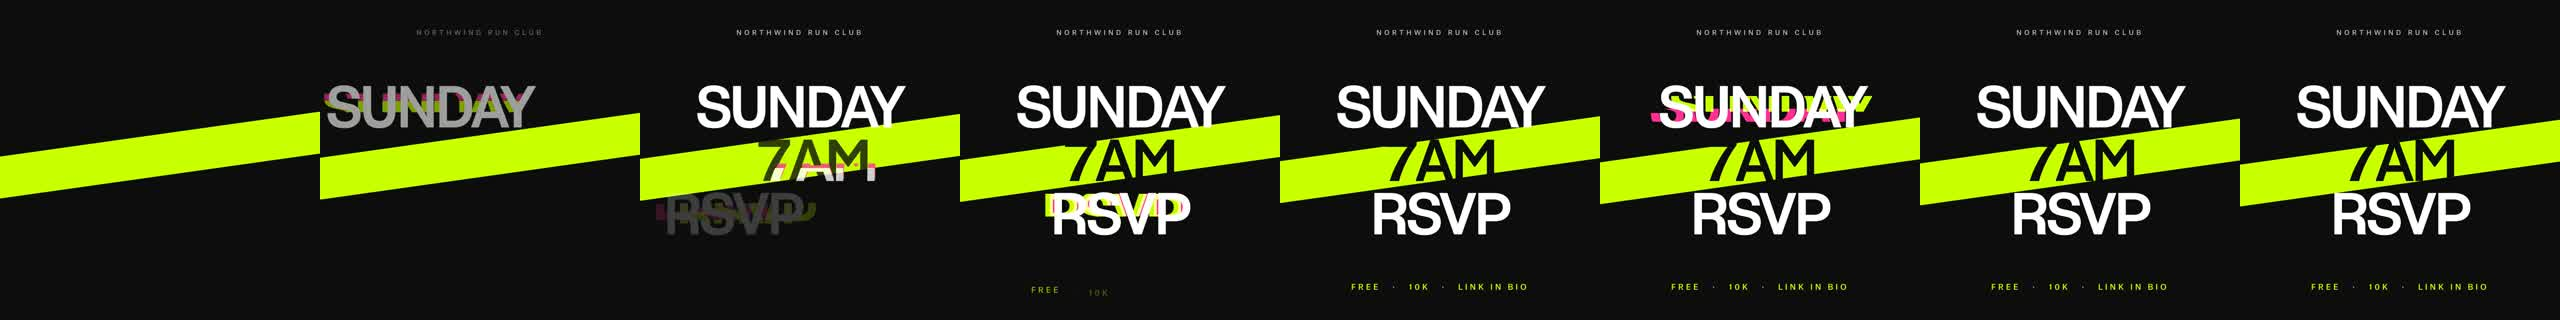
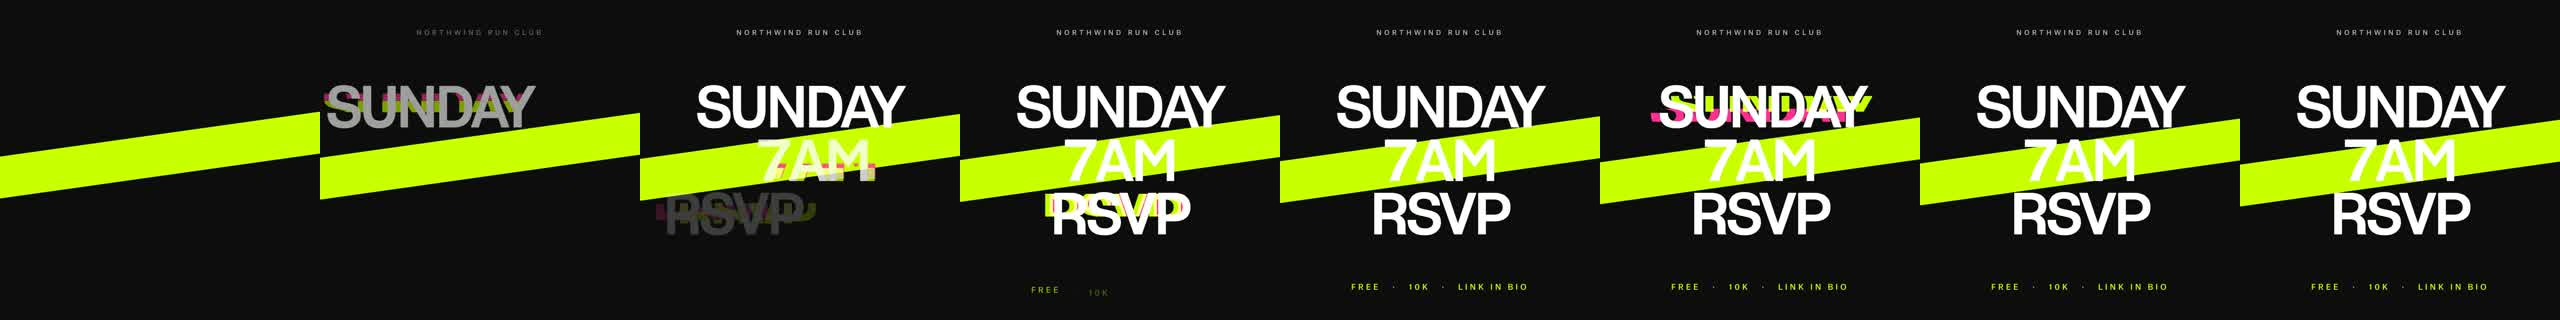
fix(effects): update UI layouts, responsive scaling, and render artifacts across effects

diff --git a/effects/text/blend-modes-overlay-poster/index.html b/effects/text/blend-modes-overlay-poster/index.html
@@ -1,20 +1,19 @@
 <!doctype html><meta charset="utf-8">
 <title>Blend Modes: Overlay Poster</title>
-<meta name="fx" content="w=1080 h=1920">
+<meta name="fx" content="w=1280 h=720">
 <link rel="stylesheet" href="../../_lib/base.css">
 <style>
   .stage{background:#0a0a0c;color:#fff;isolation:isolate}
   .img{position:absolute;inset:0;background:url("../../../assets/backgrounds/ocean.png") center/cover;filter:saturate(1.1) contrast(1.1) brightness(1.15)}
   .panel{position:absolute;mix-blend-mode:overlay;will-change:transform}
   .p1{left:0;top:0;width:100%;height:100%;background:#ff7a3d;transform-origin:left}
-  .p2{left:0;top:1080px;width:100%;height:840px;background:#2e7bff;transform-origin:bottom}
-  .p3{left:80px;top:220px;width:920px;height:1120px;background:#fff;opacity:.9}
-  .type{position:absolute;left:80px;top:380px;right:80px;mix-blend-mode:overlay}
-  .h{font-family:"Sharp Grotesk","Atlas Grotesk",sans-serif;font-weight:500;font-size:236px;line-height:.86;letter-spacing:-.05em;text-transform:uppercase;color:#fff}
+  .p2{left:0;top:420px;width:100%;height:300px;background:#2e7bff;transform-origin:bottom}
+  .p3{left:280px;top:35px;width:720px;height:480px;background:#fff;opacity:.9}
+  .badge{position:absolute;left:840px;top:60px;width:120px;height:120px;border-radius:50%;border:2.5px solid #fff;display:grid;place-items:center;font-size:19px;text-align:center;line-height:1.1;letter-spacing:.06em;mix-blend-mode:overlay}
+  .type{position:absolute;left:320px;top:60px;width:640px;mix-blend-mode:overlay}
+  .h{font-family:"Sharp Grotesk","Atlas Grotesk",sans-serif;font-weight:500;font-size:136px;line-height:.86;letter-spacing:-.05em;text-transform:uppercase;color:#fff}
   .h .ln{display:block;overflow:hidden}.h .ln span{display:block}
-  .meta{position:absolute;left:80px;right:80px;bottom:140px;display:flex;justify-content:space-between;font-size:30px;letter-spacing:.12em;text-transform:uppercase;font-weight:500;border-top:2px solid #fff;padding-top:22px}
-  .badge{position:absolute;right:80px;top:120px;width:150px;height:150px;border-radius:50%;border:3px solid #fff;display:grid;place-items:center;font-size:26px;text-align:center;line-height:1.1;letter-spacing:.06em;mix-blend-mode:overlay}
-  .strip{position:absolute;left:0;right:0;top:1460px;height:120px;background:#fff;mix-blend-mode:overlay;color:#000;display:flex;align-items:center;white-space:nowrap;font-size:64px;font-weight:500;letter-spacing:-.02em;text-transform:uppercase;overflow:hidden}
+  .strip{position:absolute;left:0;right:0;top:540px;height:56px;background:#fff;mix-blend-mode:overlay;color:#000;display:flex;align-items:center;white-space:nowrap;font-size:30px;font-weight:500;letter-spacing:-.02em;text-transform:uppercase;overflow:hidden}
   .strip .track{display:flex;will-change:transform}.strip span{padding-right:60px}
 </style>
 <div class="stage">
@@ -23,7 +22,6 @@
   <div class="badge">Live<br>Sept 12</div>
   <div class="type"><div class="h"><div class="ln"><span>Open</span></div><div class="ln"><span>Water</span></div><div class="ln"><span>Fest</span></div></div></div>
   <div class="strip"><div class="track"><span>Northwind Sound System</span><span>Northwind Sound System</span><span>Northwind Sound System</span><span>Northwind Sound System</span></div></div>
-  <div class="meta"><span>Harbour Pier 9</span><span>From 7pm</span></div>
 </div>
 <script src="../../../assets/gsap/gsap.min.js"></script>
 <script src="../../_lib/fx.js"></script>
@@ -32,16 +30,15 @@
   tl.fromTo('.img', { scale: 1.12, y: -20 }, { scale: 1.02, y: 20, duration: 4, ease: 'none' }, 0);
   tl.from('.p1', { scaleX: 0, duration: .8, ease: 'expo.out' }, 0)
     .from('.p2', { scaleY: 0, duration: .8, ease: 'expo.out' }, .15)
-    .from('.p3', { yPercent: 110, duration: .9, ease: 'expo.out' }, .25)
+    .from('.p3', { yPercent: 160, duration: .9, ease: 'expo.out' }, .25)
     .from('.h span', { yPercent: 105, duration: .8, stagger: .1, ease: 'expo.out' }, .45)
     .from('.badge', { scale: 0, rotation: -90, duration: .7, ease: 'back.out(1.8)' }, .8)
-    .from('.strip', { scaleY: 0, duration: .5, ease: 'expo.out' }, .9)
-    .from('.meta', { y: 20, opacity: 0, duration: .6, ease: 'power3.out' }, 1.0);
-  tl.fromTo('.strip .track', { x: 0 }, { x: -880, duration: 4, ease: 'none' }, 0);
+    .from('.strip', { scaleY: 0, duration: .5, ease: 'expo.out' }, .9);
+  tl.fromTo('.strip .track', { x: 0 }, { x: -507, duration: 4, ease: 'none' }, 0);
   tl.to('.badge', { rotation: 360, duration: 4, ease: 'none' }, 0);
-  tl.to('.p1', { scaleX: 0, transformOrigin: 'right', duration: .5, ease: 'expo.in' }, 3.4)
-    .to('.p2', { scaleY: 0, duration: .5, ease: 'expo.in' }, 3.4)
-    .to('.p3', { yPercent: -110, duration: .5, ease: 'expo.in' }, 3.45)
+  tl.to('.p1', { scaleX: 0, transformOrigin: 'right', duration: .45, ease: 'expo.in' }, 3.4)
+    .to('.p2', { scaleY: 0, duration: .45, ease: 'expo.in' }, 3.4)
+    .to('.p3', { yPercent: -160, duration: .45, ease: 'expo.in' }, 3.45)
     .to('.h span', { yPercent: -105, duration: .4, stagger: .05, ease: 'expo.in' }, 3.35)
-    .to('.badge, .meta, .strip', { opacity: 0, duration: .3 }, 3.6);
+    .to('.badge, .strip', { opacity: 0, duration: .3 }, 3.55);
 </script>

diff --git a/effects/the-click/liquid-glass-toggle/index.html b/effects/the-click/liquid-glass-toggle/index.html
@@ -7,7 +7,7 @@
   .bg{position:absolute;inset:-8%;background:url("../../../assets/backgrounds/aurora.png") center/cover;filter:saturate(1.3);will-change:transform}
   .orb{position:absolute;border-radius:50%;filter:blur(40px);opacity:.75;will-change:transform}
   .o1{width:460px;height:460px;background:#ff5da2;left:120px;top:-60px}.o2{width:420px;height:420px;background:#38d0ff;right:120px;bottom:-140px}
-  .row{position:relative;display:flex;align-items:center;gap:34px;padding:26px 34px 26px 40px;border-radius:40px;background:rgba(255,255,255,.12);backdrop-filter:blur(26px) saturate(1.8);-webkit-backdrop-filter:blur(26px) saturate(1.8);border:1px solid rgba(255,255,255,.4);box-shadow:0 30px 80px rgba(0,0,0,.35),inset 0 1px 0 rgba(255,255,255,.6)}
+  .row{position:relative;display:flex;align-items:center;gap:28px;padding:26px 40px;border-radius:40px;background:rgba(255,255,255,.12);backdrop-filter:blur(26px) saturate(1.8);-webkit-backdrop-filter:blur(26px) saturate(1.8);border:1px solid rgba(255,255,255,.4);box-shadow:0 30px 80px rgba(0,0,0,.35),inset 0 1px 0 rgba(255,255,255,.6)}
   .lbl{font-size:34px;font-weight:500;color:#fff;width:300px}
   .lbl small{display:block;font-size:20px;font-weight:400;color:rgba(255,255,255,.7);margin-top:4px}
   .tog{position:relative;width:180px;height:96px;border-radius:48px;background:rgba(255,255,255,.18);border:1px solid rgba(255,255,255,.45);box-shadow:inset 0 4px 12px rgba(0,0,0,.18),inset 0 1px 0 rgba(255,255,255,.5);will-change:transform}
@@ -16,7 +16,7 @@
   .knob{position:absolute;left:6px;top:6px;width:84px;height:84px;border-radius:50%;background:rgba(255,255,255,.9);will-change:transform}
   .tail{position:absolute;left:6px;top:6px;width:84px;height:84px;border-radius:50%;background:rgba(255,255,255,.9);will-change:transform}
   .knobHi{position:absolute;left:6px;top:6px;width:84px;height:84px;border-radius:50%;background:radial-gradient(60% 60% at 35% 25%,rgba(255,255,255,1),rgba(255,255,255,0) 70%);box-shadow:0 10px 26px rgba(0,0,0,.25);will-change:transform;pointer-events:none}
-  .state{position:absolute;right:-84px;top:50%;transform:translateY(-50%);font-size:30px;font-weight:500;color:#fff;width:70px;height:36px;line-height:34px;overflow:hidden}
+  .state{position:relative;font-size:30px;font-weight:500;color:#fff;width:54px;height:36px;line-height:36px;overflow:hidden;flex-shrink:0}
   .state span{position:absolute;left:0;top:0}
   .cursor{position:absolute;width:40px;height:44px;left:0;top:0;will-change:transform;filter:drop-shadow(0 6px 10px rgba(0,0,0,.5));opacity:0;z-index:5}
 </style>
@@ -25,9 +25,8 @@
   <div class="bg"></div><div class="orb o1"></div><div class="orb o2"></div>
   <div class="row">
     <div class="lbl">Focus mode<small>Silence notifications</small></div>
-    <div class="tog"><div class="fillg"></div><div class="goo"><div class="tail"></div><div class="knob"></div></div><div class="knobHi"></div>
-      <div class="state"><span class="off">Off</span><span class="on" style="opacity:0">On</span></div>
-    </div>
+    <div class="tog"><div class="fillg"></div><div class="goo"><div class="tail"></div><div class="knob"></div></div><div class="knobHi"></div></div>
+    <div class="state"><span class="off">Off</span><span class="on" style="opacity:0">On</span></div>
     <svg class="cursor" viewBox="0 0 20 22"><path d="M2 1 L17 12 L10 13 L14 20 L11 21 L7 14 L2 18 Z" fill="#fff" stroke="#000" stroke-width="1.2" stroke-linejoin="round"/></svg>
   </div>
 </div>
@@ -56,7 +55,8 @@
       .to('.cursor', { scale: 0.85, transformOrigin: '10% 5%', duration: 0.08 }, t)
       .to('.cursor', { scale: 1, duration: 0.15 }, t + 0.12);
   }
-  const kx = 40 + 300 + 34 + 48, ky = 26 + 48; // knob center in .row coords
+  const tog = document.querySelector('.tog');
+  const kx = tog.offsetLeft + 48, ky = tog.offsetTop + 48; // knob center in .row coords
   tl.fromTo('.cursor', { x: kx - 200, y: ky + 180, opacity: 0 }, { x: kx, y: ky + 4, opacity: 1, duration: 0.8, ease: 'power3.out' }, 0.3);
   flip(true, 1.3);
   tl.to('.cursor', { x: kx + D, duration: 0.5, ease: 'power2.inOut' }, 1.5);

diff --git a/effects/devices/the-route-boarding-pass/index.html b/effects/devices/the-route-boarding-pass/index.html
@@ -20,8 +20,8 @@
   .apt small{display:block;font-family:"Atlas Grotesk",sans-serif;font-size:13px;color:#6b7280;letter-spacing:0;margin-top:6px}
   .apt.r{text-align:right}
   .arc{height:110px;position:relative}
-  .arc svg{width:100%;height:100%;overflow:visible}
-  .plane{position:absolute;left:0;top:0;width:30px;height:30px;margin:-15px;will-change:transform}
+  .arc > svg:first-child{width:100%;height:100%;overflow:visible}
+  .plane{position:absolute;left:0;top:0;width:24px;height:24px;margin:-12px;will-change:transform;pointer-events:none;opacity:0}
   .grid{display:grid;grid-template-columns:repeat(4,1fr);gap:16px;margin-top:22px}
   .grid div{font-size:26px;font-weight:500;letter-spacing:-.02em}
   .grid div small{display:block;font-size:11px;letter-spacing:.16em;text-transform:uppercase;color:#6b7280;font-weight:400;margin-bottom:6px}
@@ -38,8 +38,8 @@
       <div class="hd"><i></i><b>Northwind Air</b>NW 214<span class="st">Boarding</span></div>
       <div class="route">
         <div class="apt">SFO<small>San Francisco · 07:45</small></div>
-        <div class="arc"><svg viewBox="0 0 400 110"><path id="p" d="M8,95 C120,-10 280,-10 392,95" fill="none" stroke="#d7dbe3" stroke-width="2" stroke-dasharray="5 7"/><path id="p2" d="M8,95 C120,-10 280,-10 392,95" fill="none" stroke="#2f6bff" stroke-width="3" stroke-linecap="round"/><circle cx="8" cy="95" r="6" fill="#0b1220"/><circle cx="392" cy="95" r="6" fill="#0b1220"/></svg>
-          <svg class="plane" viewBox="0 0 24 24"><path d="M2 12l20-8-6 8 6 8z" fill="#0b1220"/></svg></div>
+        <div class="arc"><svg viewBox="0 0 400 110"><path id="p" d="M12,95 C120,-10 280,-10 382,95" fill="none" stroke="#d7dbe3" stroke-width="2" stroke-dasharray="5 7"/><path id="p2" d="M12,95 C120,-10 280,-10 382,95" fill="none" stroke="#2f6bff" stroke-width="3" stroke-linecap="round"/><circle cx="12" cy="95" r="6" fill="#0b1220"/><circle cx="382" cy="95" r="6" fill="#0b1220"/></svg>
+          <svg class="plane" viewBox="0 0 512 512"><path d="M186.62 464H160a16 16 0 0 1-14.57-22.6l64.46-142.25L113.1 297l-35.3 42.77C71.07 348.23 65.7 352 52 352H34.08a17.66 17.66 0 0 1-14.7-7.06c-2.38-3.21-4.72-8.65-2.44-16.41l19.82-71c.15-.53.33-1.06.53-1.58a.4.4 0 0 0 0-.15 15 15 0 0 1-.53-1.59l-19.84-71.45c-2.15-7.61.2-12.93 2.56-16.06a16.83 16.83 0 0 1 13.6-6.7H52c10.23 0 20.16 4.59 26 12l34.57 42.05 97.32-1.44-64.44-142A16 16 0 0 1 160 48h26.91a25 25 0 0 1 19.35 9.8l125.05 152 57.77-1.52c4.23-.23 15.95-.31 18.66-.31C463 208 496 225.94 496 256c0 9.46-3.78 27-29.07 38.16-14.93 6.6-34.85 9.94-59.21 9.94-2.68 0-14.37-.08-18.66-.31l-57.76-1.54-125.36 152a25 25 0 0 1-19.32 9.75" fill="#0b1220"/></svg></div>
         <div class="apt r">JFK<small>New York · 16:20</small></div>
       </div>
       <div class="grid"><div><small>Gate</small><span class="g">B12</span></div><div><small>Boarding</small><span class="bt">07:05</span></div><div><small>Seat</small><span class="se">14A</span></div><div><small>Group</small><span class="gr">2</span></div></div>
@@ -71,6 +71,7 @@
     // barcode prints in
     .from('#bar i', { scaleY: 0, stagger: 0.012, duration: 0.3, ease: 'power2.out' }, 1.0)
     // the route draws and the plane follows it, nose along the curve
+    .to('.plane', { opacity: 1, duration: 0.2 }, 1.5)
     .fromTo('#p2', { drawSVG: '0%' }, { drawSVG: '100%', duration: 3.2, ease: 'power2.inOut' }, 1.5)
     .to('.plane', { motionPath: { path: '#p', align: '#p', alignOrigin: [0.5, 0.5], autoRotate: true }, duration: 3.2, ease: 'power2.inOut' }, 1.5)
     // the pass reacts: gate and boarding time update with a flip

diff --git a/effects/text/multiply/index.html b/effects/text/multiply/index.html
@@ -3,7 +3,10 @@
 <meta name="fx" content="w=1280 h=720">
 <link rel="stylesheet" href="../../_lib/base.css">
 <style>
-  .stage{background:#f2ede4}
+  :root{--scale:min(calc(100vw / 1280px), calc(100vh / 720px))}
+  body{background:#f2ede4}
+  .stage{background:#f2ede4;display:flex;align-items:center;justify-content:center;width:100vw;height:100vh;overflow:hidden}
+  .artboard{position:absolute;width:1280px;height:720px;background:#f2ede4;overflow:hidden;transform-origin:center center;transform:scale(var(--scale, 1))}
   .s{position:absolute;mix-blend-mode:multiply;will-change:transform}
   .c1{width:520px;height:520px;border-radius:50%;background:#ff4d3d;left:240px;top:60px}
   .c2{width:560px;height:560px;border-radius:50%;background:#2d6cff;left:540px;top:120px}
@@ -16,15 +19,24 @@
   .cap2{position:absolute;right:60px;bottom:52px;font-family:"Atlas Grotesk",sans-serif;font-size:15px;letter-spacing:.4em;text-transform:uppercase;color:#1a1a1a;opacity:.7}
 </style>
 <div class="stage">
-  <div class="s c1"></div><div class="s c2"></div><div class="s c3"></div><div class="s r1"></div><div class="s r2"></div>
-  <div class="t">Multiply</div>
-  <div class="t i">Multiply</div>
-  <div class="cap">Antinomy — Issue 04</div>
-  <div class="cap2">Blend study</div>
+  <div class="artboard">
+    <div class="s c1"></div><div class="s c2"></div><div class="s c3"></div><div class="s r1"></div><div class="s r2"></div>
+    <div class="t">Multiply</div>
+    <div class="t i">Multiply</div>
+    <div class="cap">Antinomy — Issue 04</div>
+    <div class="cap2">Blend study</div>
+  </div>
 </div>
 <script src="../../../assets/gsap/gsap.min.js"></script>
 <script src="../../_lib/fx.js"></script>
 <script>
+  function updateScale() {
+    const s = Math.min(window.innerWidth / 1280, window.innerHeight / 720);
+    document.documentElement.style.setProperty('--scale', s);
+  }
+  window.addEventListener('resize', updateScale);
+  updateScale();
+
   const D = 8, TAU = Math.PI * 2;
   fx.register({
     duration: D,

diff --git a/effects/text/glitchy-text-reveal/index.html b/effects/text/glitchy-text-reveal/index.html
@@ -7,11 +7,9 @@
   .stripe{position:absolute;left:-200px;right:-200px;height:140px;background:#c8ff00;transform:rotate(-8deg);top:470px;will-change:transform}
   .stack{position:absolute;inset:0;display:flex;flex-direction:column;justify-content:center;align-items:center;gap:8px}
   .line{position:relative;font-family:"Sharp Grotesk","Atlas Grotesk",sans-serif;font-weight:500;font-size:196px;line-height:.88;letter-spacing:-.04em;text-transform:uppercase;color:#fff;will-change:transform}
-  .line.k{color:#0d0d0d}
   .line .s{position:absolute;inset:0;color:inherit;will-change:transform,clip-path}
   .line .s.a{color:#c8ff00;mix-blend-mode:screen}
   .line .s.b{color:#ff2d95;mix-blend-mode:screen}
-  .line.k .s.a{color:#fff}
   .meta{position:absolute;left:0;right:0;bottom:96px;display:flex;justify-content:center;gap:40px;font-family:"Atlas Grotesk",sans-serif;font-weight:500;font-size:26px;letter-spacing:.3em;text-transform:uppercase;color:#c8ff00}
   .meta span{will-change:transform,opacity}
   .top{position:absolute;left:0;right:0;top:96px;text-align:center;font-family:"Atlas Grotesk",sans-serif;font-weight:500;font-size:22px;letter-spacing:.4em;text-transform:uppercase;color:#fff;opacity:.7}
@@ -21,7 +19,7 @@
   <div class="top">Northwind Run Club</div>
   <div class="stack">
     <div class="line" data-t="Sunday"><span class="s a">Sunday</span><span class="s b">Sunday</span>Sunday</div>
-    <div class="line k" data-t="7AM"><span class="s a">7AM</span><span class="s b">7AM</span>7AM</div>
+    <div class="line" data-t="7AM"><span class="s a">7AM</span><span class="s b">7AM</span>7AM</div>
     <div class="line" data-t="RSVP"><span class="s a">RSVP</span><span class="s b">RSVP</span>RSVP</div>
   </div>
   <div class="meta"><span>Free</span><span>·</span><span>10K</span><span>·</span><span>Link in bio</span></div>

diff --git a/effects/text/animated-repeater/index.html b/effects/text/animated-repeater/index.html
@@ -4,10 +4,10 @@
 <link rel="stylesheet" href="../../_lib/base.css">
 <style>
   .stage{background:#101014}
-  .grid{position:absolute;inset:0;display:grid;grid-template-columns:repeat(20,1fr);grid-template-rows:repeat(11,1fr);padding:30px;gap:0}
+  .grid{position:absolute;inset:0;display:grid;grid-template-columns:repeat(20,1fr);grid-template-rows:repeat(11,1fr);padding:30px;gap:0;opacity:.7}
   .cell{display:grid;place-items:center}
   .dot{width:36px;height:36px;border-radius:9px;background:#ffd23f;will-change:transform,opacity}
-  .mark{position:absolute;left:50%;top:50%;transform:translate(-50%,-50%);font-family:"Sharp Grotesk","Atlas Grotesk",sans-serif;font-weight:500;font-size:110px;letter-spacing:-.04em;color:#fff;mix-blend-mode:difference}
+  .mark{position:absolute;left:50%;top:50%;transform:translate(-50%,-50%);font-family:"Sharp Grotesk","Atlas Grotesk",sans-serif;font-weight:500;font-size:110px;letter-spacing:-.04em;color:#fff;z-index:2}
 </style>
 <div class="stage"><div class="grid" id="grid"></div><div class="mark">Northwind</div></div>
 <script src="../../../assets/gsap/gsap.min.js"></script>
